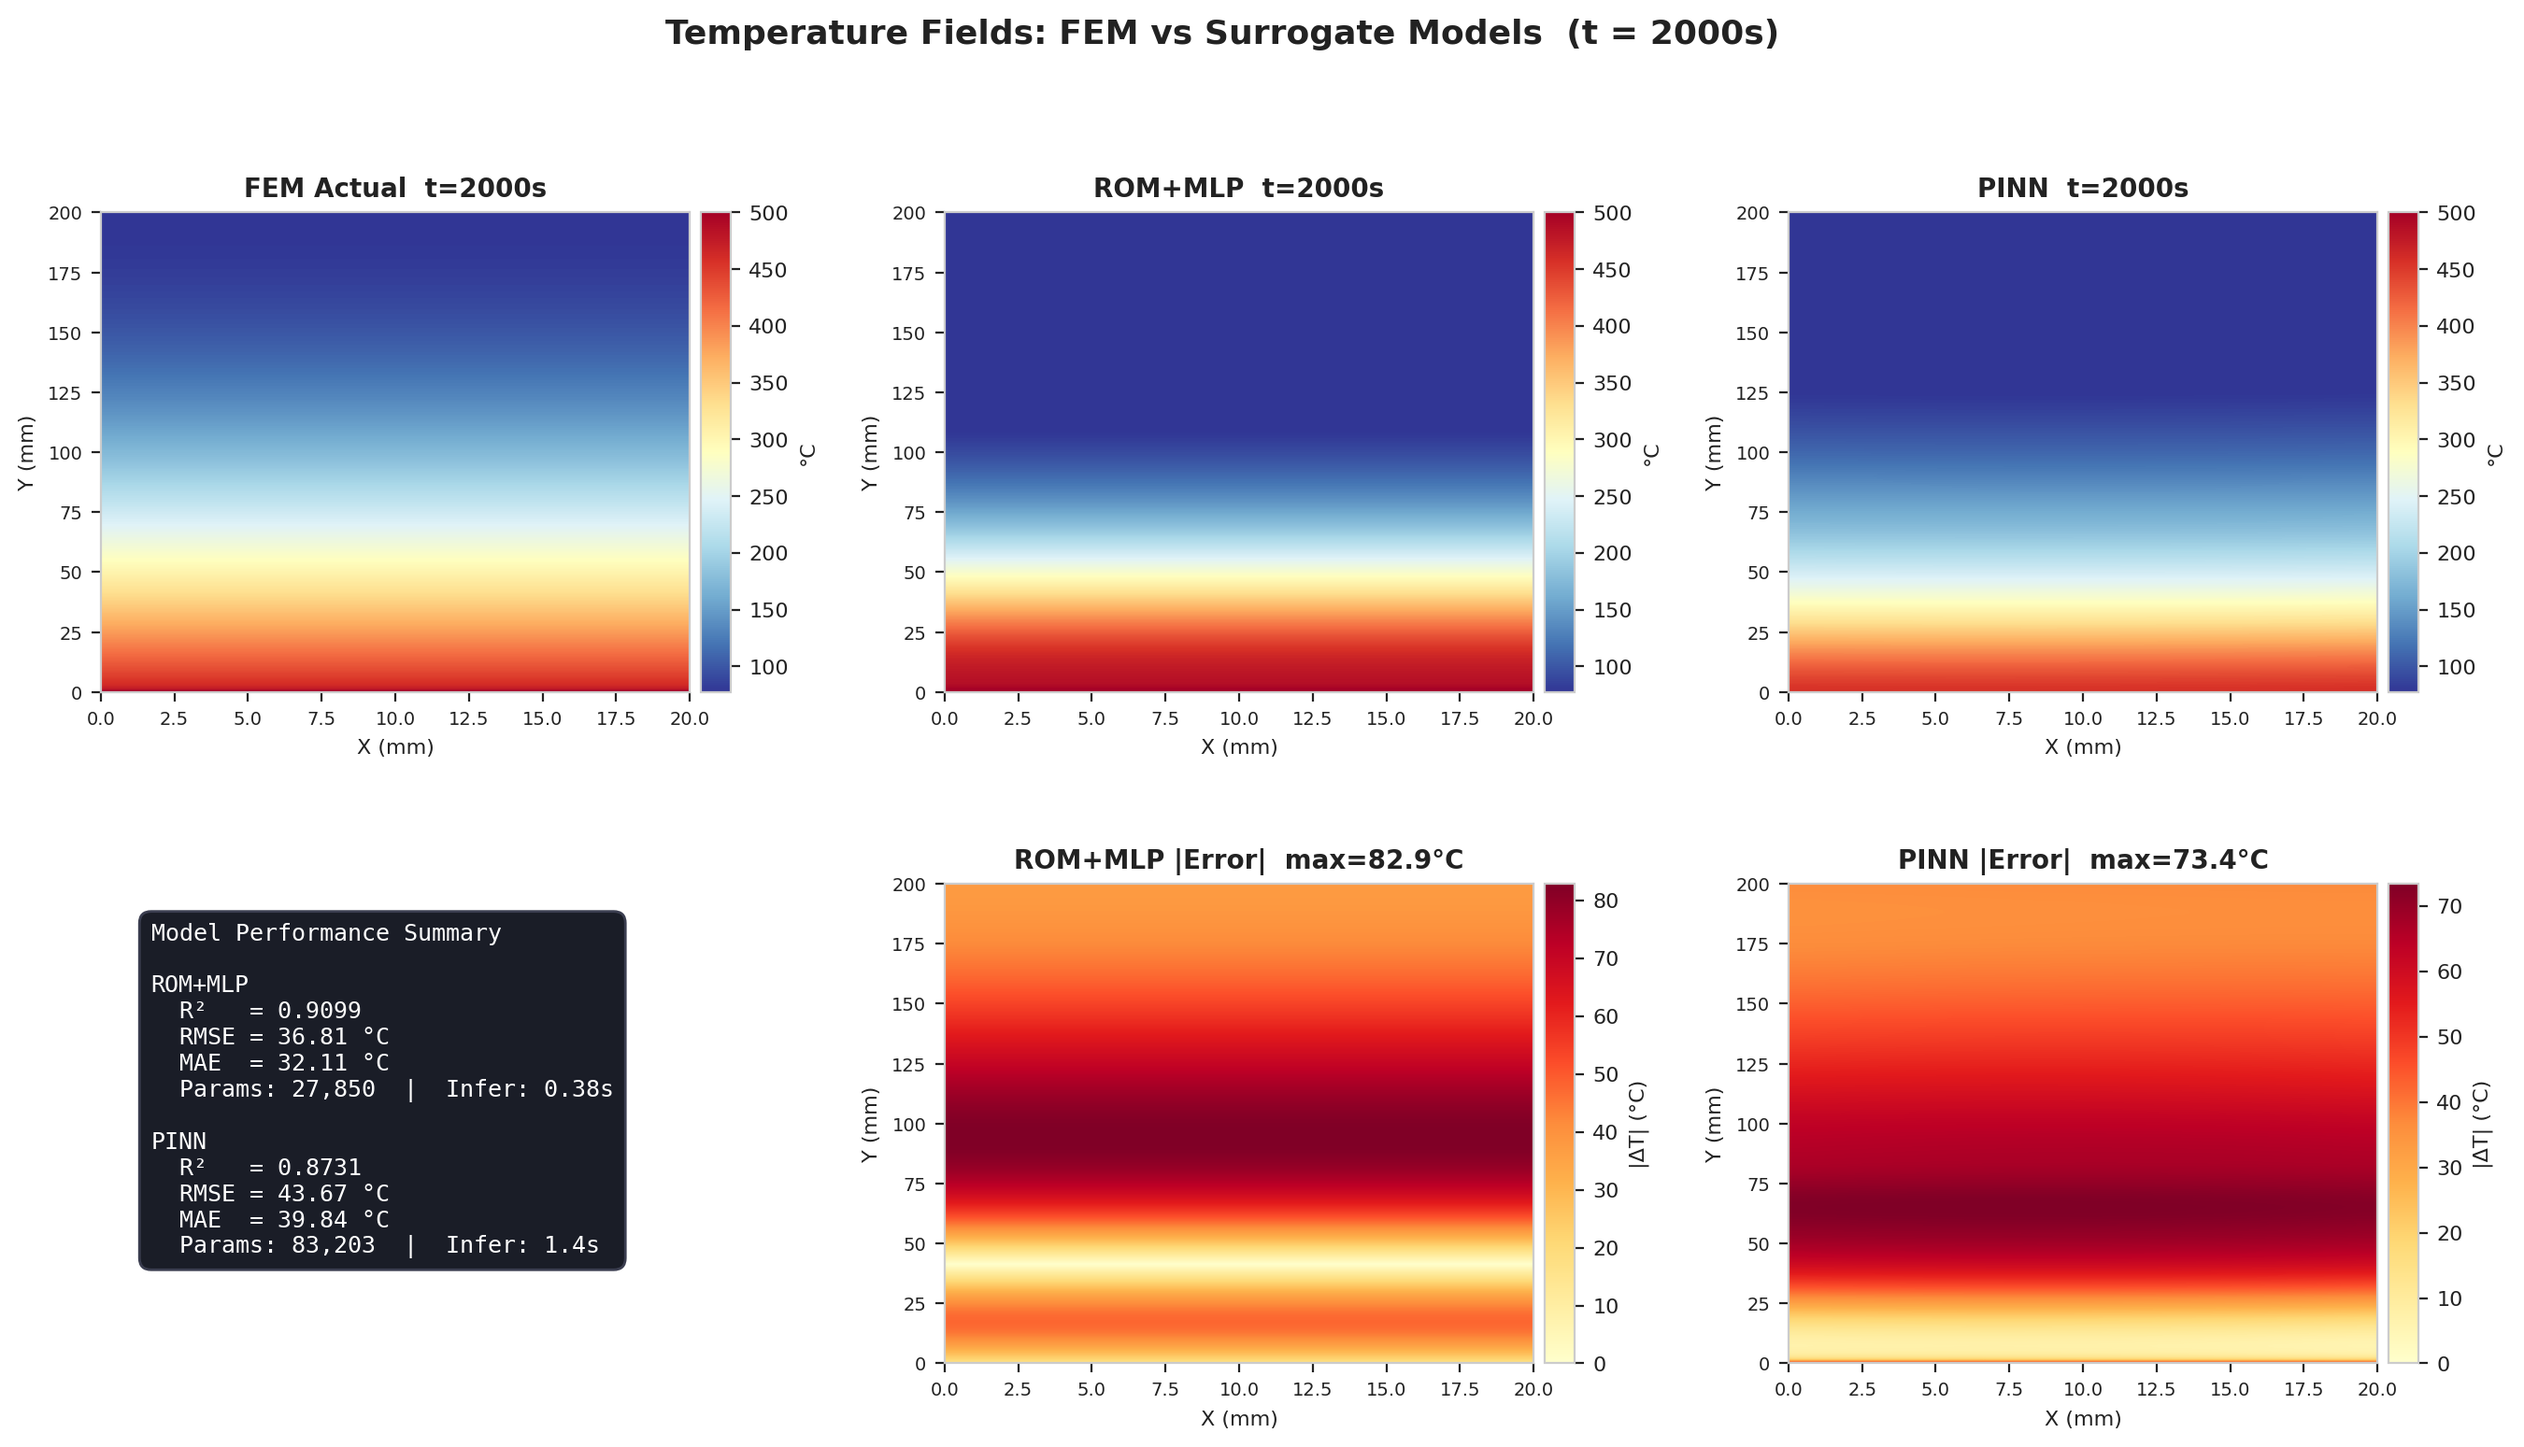
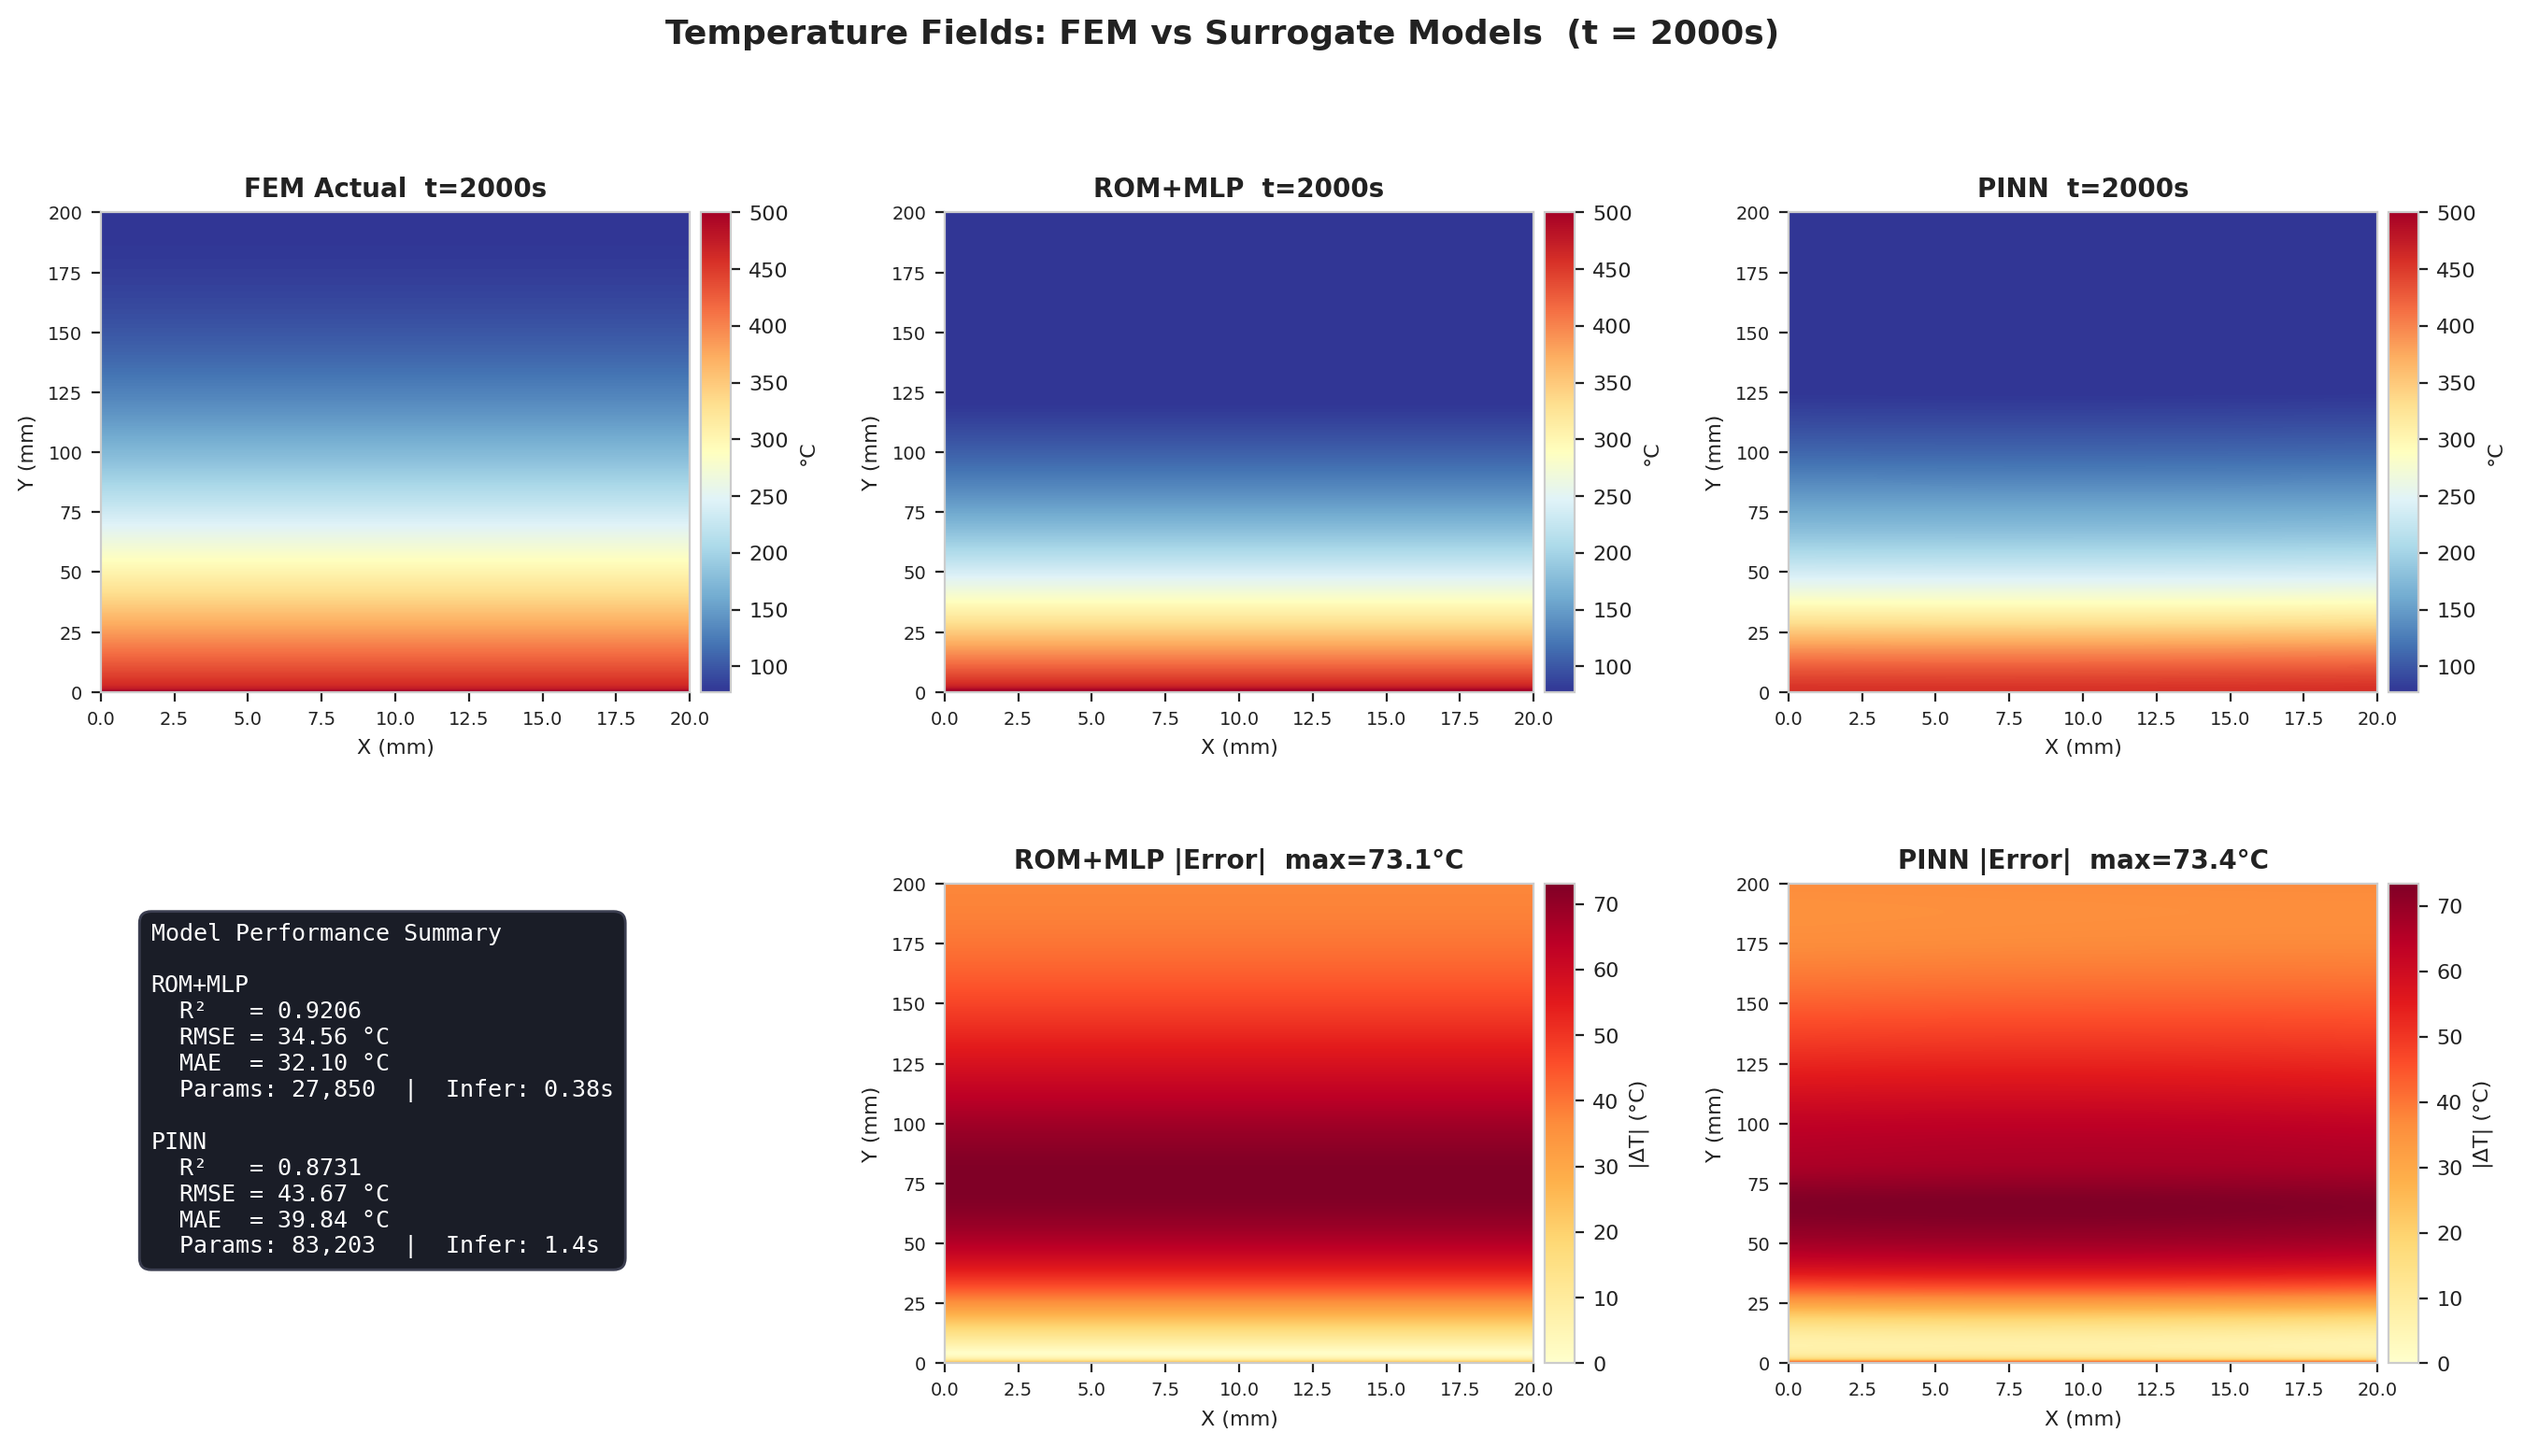
Update

diff --git a/plot_results.py b/plot_results.py
@@ -399,6 +399,103 @@ def fig4_physics_discovery(pinn):
     print("    Saved: fig4_physics_discovery.png")
 
 
+# ── Figure 5: Train vs Test metric comparison ─────────────────────────────
+
+def fig5_train_test_comparison(rom, pinn):
+    print("  Building fig5_train_test_comparison.png ...")
+
+    # Check that training metrics exist
+    has_train = lambda d: d and "train_MAE" in d["metrics"]
+    if not has_train(rom) and not has_train(pinn):
+        print("    WARNING: No training metrics found in metrics.json.")
+        print("    Re-run rom_lstm.py and pinn.py first, then regenerate plots.")
+        return
+
+    with plt.rc_context(LIGHT_RC):
+        metrics_cfg = [
+            ("R2",         "R\u00b2",       None),
+            ("RMSE",       "RMSE (\u00b0C)", None),
+            ("MAE",        "MAE (\u00b0C)",  None),
+        ]
+
+        fig, axes = plt.subplots(1, 3, figsize=(14, 5), facecolor="white")
+
+        bar_w   = 0.18
+        x_pos   = np.arange(2)   # ROM+MLP, PINN
+        offsets = [-bar_w * 1.5, -bar_w * 0.5, bar_w * 0.5, bar_w * 1.5]
+        colors  = ["#00a86b", "#90e0c8", "#e05252", "#f4a8a8"]
+        labels  = ["ROM+MLP Train", "ROM+MLP Test", "PINN Train", "PINN Test"]
+
+        for ax, (key, ylabel, _) in zip(axes, metrics_cfg):
+            train_key = f"train_{key}"
+            vals = []
+            for mk, tk, model in [
+                (key, train_key, rom),
+                (key, train_key, pinn),
+            ]:
+                train_v = model["metrics"].get(tk, None) if model else None
+                test_v  = model["metrics"].get(mk, None) if model else None
+                vals.append((train_v, test_v))
+
+            # Draw bars for each model side by side
+            bar_data = [
+                (offsets[0], vals[0][0], colors[0], labels[0]),  # ROM train
+                (offsets[1], vals[0][1], colors[1], labels[1]),  # ROM test
+                (offsets[2], vals[1][0], colors[2], labels[2]),  # PINN train
+                (offsets[3], vals[1][1], colors[3], labels[3]),  # PINN test
+            ]
+
+            # Single x-axis position (no model grouping needed — just 4 bars)
+            bar_positions = np.arange(4)
+            bar_vals      = [b[1] for b in bar_data]
+            bar_colors    = [b[2] for b in bar_data]
+            bar_labels    = [b[3] for b in bar_data]
+
+            bars = ax.bar(bar_positions, bar_vals, color=bar_colors,
+                          width=0.6, edgecolor="white", linewidth=0.8, zorder=3)
+
+            # Value labels on top
+            top = max(v for v in bar_vals if v is not None)
+            if key == "R2":
+                ax.set_ylim(0, min(top * 1.20, 1.15))
+            else:
+                ax.set_ylim(0, top * 1.25)
+
+            for bar, v in zip(bars, bar_vals):
+                if v is None:
+                    continue
+                fmt = f"{v:.4f}" if key == "R2" else f"{v:.1f}"
+                ax.text(bar.get_x() + bar.get_width() / 2,
+                        bar.get_height() + top * 0.02,
+                        fmt, ha="center", va="bottom",
+                        fontsize=9, fontweight="bold", color="#222222", zorder=4)
+
+            ax.set_xticks(bar_positions)
+            ax.set_xticklabels(["ROM+MLP\nTrain", "ROM+MLP\nTest",
+                                 "PINN\nTrain",   "PINN\nTest"],
+                               fontsize=9)
+            ax.set_title(ylabel, fontsize=12, fontweight="bold", pad=10)
+            ax.set_ylabel(key, fontsize=10)
+            ax.grid(True, axis="y", alpha=0.4, zorder=0)
+            ax.set_axisbelow(True)
+            for sp in ax.spines.values():
+                sp.set_edgecolor("#cccccc")
+
+        # Vertical separator lines between ROM and PINN groups
+        for ax in axes:
+            ax.axvline(1.5, color="#cccccc", linewidth=1.2, linestyle="--", zorder=2)
+
+        fig.suptitle(
+            "Training vs Test Performance  --  ROM+MLP and PINN\n"
+            "Train: t=0-1600s  |  Test: t=1600-2000s  (temporal extrapolation)",
+            fontsize=12, fontweight="bold", y=1.02)
+        plt.tight_layout()
+        fig.savefig(OUT / "fig5_train_test_comparison.png", dpi=200,
+                    bbox_inches="tight", facecolor="white")
+        plt.close()
+    print("    Saved: fig5_train_test_comparison.png")
+
+
 # ── Main ──────────────────────────────────────────────────────────────────
 
 def main():
@@ -415,6 +512,7 @@ def main():
     fig2_temperature_fields(rom, pinn, coords)
     fig3_error_evolution(rom, pinn)
     fig4_physics_discovery(pinn)
+    fig5_train_test_comparison(rom, pinn)
     print(f"\nAll figures saved to: {OUT}")
     print("=" * 60)
 

diff --git a/pinn.py b/pinn.py
@@ -332,6 +332,21 @@ def main():
     metrics  = compute_metrics(T_test, T_pred)
     node_mae = per_node_metrics(T_test, T_pred)
 
+    # Training metrics
+    train_preds = []
+    for i in range(0, len(x_n_all), CHUNK):
+        xyt = tf.constant(
+            np.stack([x_n_all[i:i+CHUNK], y_n_all[i:i+CHUNK], t_n_all[i:i+CHUNK]], axis=1),
+            dtype=tf.float32,
+        )
+        train_preds.append(model(xyt, training=False).numpy().flatten())
+    T_pred_train  = denorm_T(np.concatenate(train_preds)).reshape(len(t_train), -1)
+    train_metrics = compute_metrics(T_train, T_pred_train)
+
+    print(f"\n  Train metrics:")
+    print(f"  R2   : {train_metrics['R2']:.6f}")
+    print(f"  RMSE : {train_metrics['RMSE']:.4f} degC")
+    print(f"  MAE  : {train_metrics['MAE']:.4f} degC")
     print(f"\n  Test metrics (temporal holdout):")
     print(f"  R2   : {metrics['R2']:.6f}")
     print(f"  RMSE : {metrics['RMSE']:.4f} degC")
@@ -382,13 +397,16 @@ def main():
         "model":        "PINN",
         "n_params":     n_params,
         "n_steps":      N_STEPS,
-
         "lambda_phys":  LAMBDA_PHYSICS,
         "lambda_bc":    LAMBDA_BC,
         "gamma_x":      float(model.gamma_x),
         "gamma_y":      float(model.gamma_y),
+        "gamma_ratio":  float(model.gamma_x) / float(model.gamma_y),
         "train_time_s": train_time,
         "infer_time_s": infer_time,
+        "train_R2":     train_metrics["R2"],
+        "train_RMSE":   train_metrics["RMSE"],
+        "train_MAE":    train_metrics["MAE"],
         **metrics,
     }
     with open(OUT / "metrics.json", "w") as f:

diff --git a/rom_lstm.py b/rom_lstm.py
@@ -333,6 +333,15 @@ def main():
     metrics  = compute_metrics(T_test, T_pred)
     node_mae = per_node_metrics(T_test, T_pred)
 
+    # Training metrics
+    pred_coeffs_train = model.predict(F_train, verbose=0)
+    T_pred_train      = pod.reconstruct(pred_coeffs_train)
+    train_metrics     = compute_metrics(T_train, T_pred_train)
+
+    print(f"\n  Train metrics:")
+    print(f"  R2   : {train_metrics['R2']:.6f}")
+    print(f"  RMSE : {train_metrics['RMSE']:.4f} degC")
+    print(f"  MAE  : {train_metrics['MAE']:.4f} degC")
     print(f"\n  Test metrics (temporal holdout, direct MLP prediction):")
     print(f"  R2   : {metrics['R2']:.6f}")
     print(f"  RMSE : {metrics['RMSE']:.4f} °C")
@@ -363,13 +372,16 @@ def main():
 
     # ── Save ───────────────────────────────────────────────────────────────
     results = {
-        "model":          "ROM+LSTM",
+        "model":          "ROM+MLP",
         "n_modes":        N_MODES,
         "energy_pct":     pod.energy_captured,
         "pod_train_rmse": pod_rmse,
         "n_params":       n_params,
         "train_time_s":   train_time,
         "infer_time_s":   infer_time,
+        "train_R2":       train_metrics["R2"],
+        "train_RMSE":     train_metrics["RMSE"],
+        "train_MAE":      train_metrics["MAE"],
         **metrics,
     }
     with open(OUT / "metrics.json", "w") as f:
